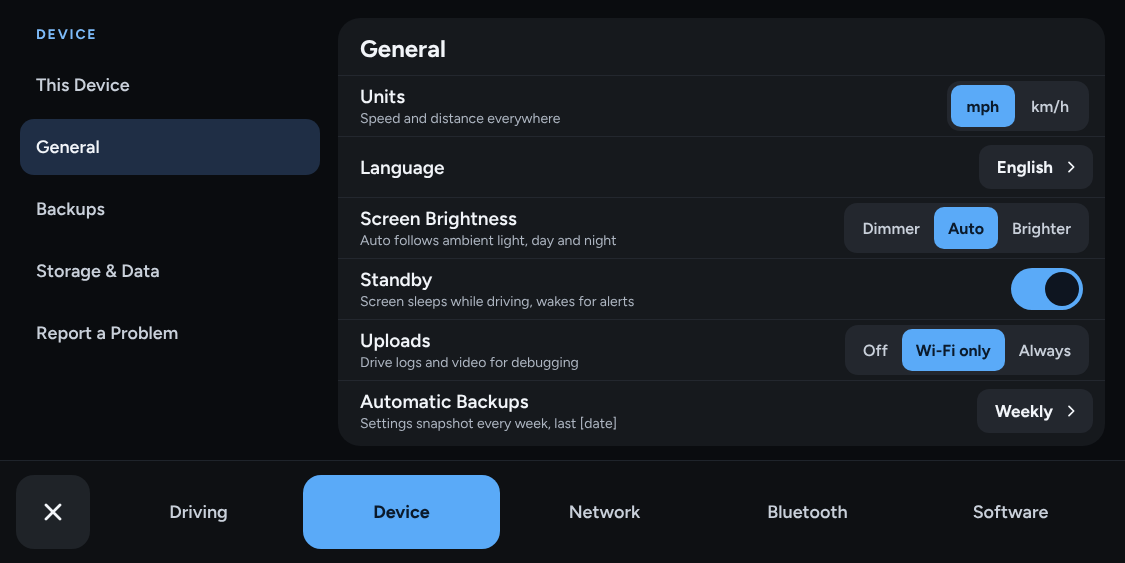
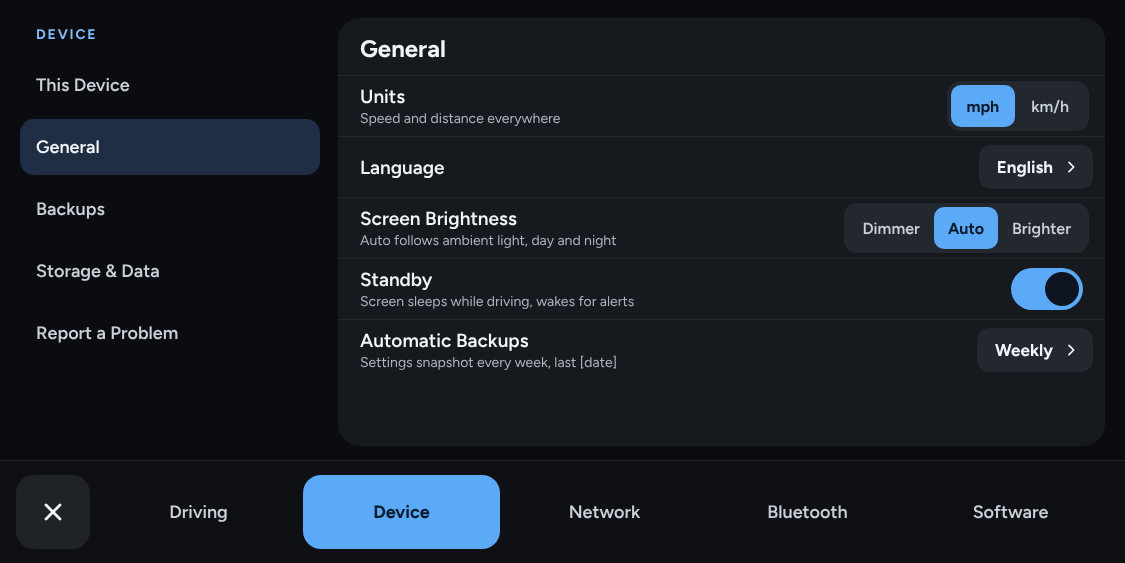
Settings: clearer homes for a few settings
- Bluetooth's Wheel Buttons card is now Bluetooth Remote, apart from the
  car's own Steering Wheel Buttons under Vehicle.
- Display: Camera View and Driver Camera in Reverse move to Driving
  Screen; Theme & Startup holds the customizations: Path Style, Turn
  Signal, Boot Logo and Startup Message.
- Network: Hotspot Password sits under Hotspot instead of in Roaming,
  APN and IP address.
- Storage & Data: a Recording & Uploads group with Record Driver Camera,
  Record Microphone and Uploads (moved from General).
- Everyday gets a description: driving style, speed limits, lane
  changes and steering.

Mocks first: bluetoothtab, display, displaytheme, networktab, system,
systemstorage and driving.

Claude-Session: https://claude.ai/code/session_01R4pPc2hcx88Dbjjec1p8WC

diff --git a/selfdrive/ui/tandem/design/systemstorage.html b/selfdrive/ui/tandem/design/systemstorage.html
@@ -34,28 +34,39 @@ a{color:#7DBBF9}a:hover{color:#A9D3FB}
           <span style="display: flex; align-items: center; gap: 6px;"><span style="width: 10px; height: 10px; border-radius: 3px; background: #F0B35A; display: block;"></span>Models</span>
         </div>
       </div>
-      <div style="display: flex; align-items: center; gap: 16px; padding: 0 14px 0 22px; height: 64px; border-bottom: 1px solid #23272E;">
+      <div style="display: flex; align-items: center; gap: 16px; padding: 0 14px 0 22px; height: 58px; border-bottom: 1px solid #23272E;">
         <div style="flex-grow: 1; display: flex; flex-direction: column; gap: 2px;"><span style="font-size: 18px; font-weight: 600;">Recorded Drives</span><span style="font-size: 14px; color: #AEB6C2;">Oldest drives are removed when space runs low</span></div>
         <button type="button" style="font-family: inherit; height: 44px; padding: 0 16px; border: 0; border-radius: 12px; background: #3A2026; color: #F2A7B1; font-size: 15px; font-weight: 700;">Delete all</button>
       </div>
-      <div style="display: flex; align-items: center; gap: 16px; padding: 0 14px 0 22px; height: 64px; border-bottom: 1px solid #23272E;">
+      <div style="display: flex; align-items: center; gap: 16px; padding: 0 14px 0 22px; height: 58px; border-bottom: 1px solid #23272E;">
         <div style="flex-grow: 1; display: flex; flex-direction: column; gap: 2px;"><span style="font-size: 18px; font-weight: 600;">Offline Maps</span><span style="font-size: 14px; color: #AEB6C2;">Speed limits and curves work without a connection</span></div>
         <button type="button" style="font-family: inherit; height: 44px; padding: 0 16px; border: 0; border-radius: 12px; background: #3A2026; color: #F2A7B1; font-size: 15px; font-weight: 700;">Delete</button>
       </div>
-      <div style="display: flex; align-items: center; gap: 16px; padding: 0 14px 0 22px; height: 64px; border-bottom: 1px solid #23272E;">
+      <div style="display: flex; align-items: center; gap: 16px; padding: 0 14px 0 22px; height: 58px; border-bottom: 1px solid #23272E;">
         <div style="flex-grow: 1; display: flex; flex-direction: column; gap: 2px;"><span style="font-size: 18px; font-weight: 600;">Unused Models</span><span style="font-size: 14px; color: #AEB6C2;">[count] downloaded models not in use</span></div>
         <button type="button" style="font-family: inherit; height: 44px; padding: 0 16px; border: 0; border-radius: 12px; background: #3A2026; color: #F2A7B1; font-size: 15px; font-weight: 700;">Remove</button>
       </div>
-      <div style="display: flex; align-items: center; gap: 16px; padding: 0 22px; height: 64px; border-bottom: 1px solid #23272E;">
+      <div style="padding: 0 22px; height: 30px; display: flex; align-items: flex-end; background: #13161A;">
+        <span style="font-size: 13px; font-weight: 700; letter-spacing: 1.6px; color: #8FA0B5;">RECORDING &amp; UPLOADS</span>
+      </div>
+      <div style="display: flex; align-items: center; gap: 16px; padding: 0 22px; height: 58px; border-bottom: 1px solid #23272E;">
         <div style="flex-grow: 1; display: flex; flex-direction: column; gap: 2px;"><span style="font-size: 18px; font-weight: 600;">Record Driver Camera</span><span style="font-size: 14px; color: #AEB6C2;">Saved and uploaded with your drives</span></div>
         <button type="button" role="switch" aria-checked="false" aria-label="Record Driver Camera" style="width: 72px; height: 42px; border-radius: 21px; border: 0; background: #343A44; padding: 4px; display: flex; justify-content: flex-start;"><span style="width: 34px; height: 34px; border-radius: 17px; background: #F2F5F9; display: block;"></span></button>
       </div>
-      <div style="display: flex; align-items: center; gap: 16px; padding: 0 22px; height: 64px; border-bottom: 1px solid #23272E;">
+      <div style="display: flex; align-items: center; gap: 16px; padding: 0 22px; height: 58px; border-bottom: 1px solid #23272E;">
         <div style="flex-grow: 1; display: flex; flex-direction: column; gap: 2px;"><span style="font-size: 18px; font-weight: 600;">Record Microphone</span><span style="font-size: 14px; color: #AEB6C2;">Cabin audio in your drive recordings</span></div>
         <button type="button" role="switch" aria-checked="false" aria-label="Record Microphone" style="width: 72px; height: 42px; border-radius: 21px; border: 0; background: #343A44; padding: 4px; display: flex; justify-content: flex-start;"><span style="width: 34px; height: 34px; border-radius: 17px; background: #F2F5F9; display: block;"></span></button>
       </div>
+      <div style="display: flex; align-items: center; gap: 16px; padding: 0 16px 0 22px; height: 58px; border-bottom: 1px solid #23272E;">
+        <div style="flex-grow: 1; display: flex; flex-direction: column; gap: 2px;"><span style="font-size: 18px; font-weight: 600;">Uploads</span><span style="font-size: 14px; color: #AEB6C2;">Drive logs and video for debugging</span></div>
+        <div role="radiogroup" aria-label="Uploads" style="display: flex; background: #23272E; border-radius: 13px; padding: 4px;">
+          <button type="button" role="radio" aria-checked="false" style="font-family: inherit; border: 0; background: transparent; color: #C9D0DA; height: 42px; padding: 0 14px; border-radius: 10px; font-size: 16px; font-weight: 600;">Off</button>
+          <button type="button" role="radio" aria-checked="true" style="font-family: inherit; border: 0; background: #5AAAF8; color: #0B1A2B; height: 42px; padding: 0 14px; border-radius: 10px; font-size: 16px; font-weight: 700;">Wi-Fi only</button>
+          <button type="button" role="radio" aria-checked="false" style="font-family: inherit; border: 0; background: transparent; color: #C9D0DA; height: 42px; padding: 0 14px; border-radius: 10px; font-size: 16px; font-weight: 600;">Always</button>
+        </div>
+      </div>
       <div style="flex-grow: 1;"></div>
-      <span style="font-size: 14px; color: #8FA0B5; padding: 12px 22px;">Upload settings are in General. High-quality recording, logging and error logs are in Tuner Mode.</span>
+      <span style="font-size: 14px; color: #8FA0B5; padding: 12px 22px;">High-quality recording, logging and error logs are in Tuner Mode.</span>
     </div>
   </div>
   <nav style="height: 102px; flex-shrink: 0; border-top: 1px solid #1F242B; background: #0E1013; display: flex; align-items: center; gap: 10px; padding: 0 16px;">

diff --git a/selfdrive/ui/tandem/design/displaytheme.html b/selfdrive/ui/tandem/design/displaytheme.html
@@ -24,17 +24,19 @@ a{color:#7DBBF9}a:hover{color:#A9D3FB}
     </div>
     <div style="flex-grow: 1; min-width: 0; background: #16191D; border-radius: 22px; display: flex; flex-direction: column; overflow: hidden;">
       <div style="padding: 16px 22px 12px; border-bottom: 1px solid #23272E;"><h2 style="margin: 0; font-size: 24px; font-weight: 700;">Theme &amp; Startup</h2></div>
-      <div style="display: flex; align-items: center; gap: 16px; padding: 0 16px 0 22px; height: 70px; border-bottom: 1px solid #23272E;">
-        <div style="flex-grow: 1; display: flex; flex-direction: column; gap: 2px;"><span style="font-size: 19px; font-weight: 600;">Camera View</span><span style="font-size: 14px; color: #AEB6C2;">Wide shows more of the road at low speed</span></div>
-        <div role="radiogroup" aria-label="Camera view" style="display: flex; background: #23272E; border-radius: 13px; padding: 4px;">
-          <button type="button" role="radio" aria-checked="false" style="font-family: inherit; border: 0; background: transparent; color: #C9D0DA; height: 42px; padding: 0 16px; border-radius: 10px; font-size: 16px; font-weight: 600;">Auto</button>
-          <button type="button" role="radio" aria-checked="true" style="font-family: inherit; border: 0; background: #5AAAF8; color: #0B1A2B; height: 42px; padding: 0 16px; border-radius: 10px; font-size: 16px; font-weight: 700;">Standard</button>
-          <button type="button" role="radio" aria-checked="false" style="font-family: inherit; border: 0; background: transparent; color: #C9D0DA; height: 42px; padding: 0 16px; border-radius: 10px; font-size: 16px; font-weight: 600;">Wide</button>
+      <div style="display: flex; align-items: center; gap: 16px; padding: 0 12px 0 22px; height: 56px; border-bottom: 1px solid #23272E;">
+        <div style="flex-grow: 1; display: flex; flex-direction: column; gap: 2px; min-width: 0;">
+          <span style="font-size: 19px; font-weight: 600;">Path Style</span>
+          <span style="font-size: 14px; color: #AEB6C2;">Color, width and edges as one preset</span>
         </div>
+        <a href="pathstylepicker.html" style="text-decoration: none; display: flex; align-items: center; gap: 10px; height: 44px; padding: 0 14px 0 18px; border: 0; border-radius: 12px; background: #23272E; color: #F2F5F9; font-size: 17px; font-weight: 700;">Standard <svg width="16" height="16" viewBox="0 0 24 24" fill="none" stroke="#F2F5F9" stroke-width="2.6" stroke-linecap="round" stroke-linejoin="round" aria-hidden="true"><path d="M9 5l7 7-7 7"></path></svg></a>
       </div>
-      <div style="display: flex; align-items: center; gap: 16px; padding: 0 22px; height: 70px; border-bottom: 1px solid #23272E;">
-        <div style="flex-grow: 1; display: flex; flex-direction: column; gap: 2px;"><span style="font-size: 19px; font-weight: 600;">Driver Camera in Reverse</span><span style="font-size: 14px; color: #AEB6C2;">Shows the inside camera while backing up</span></div>
-        <button type="button" role="switch" aria-checked="false" aria-label="Driver Camera in Reverse" style="width: 72px; height: 42px; border-radius: 21px; border: 0; background: #343A44; padding: 4px; display: flex; justify-content: flex-start;"><span style="width: 34px; height: 34px; border-radius: 17px; background: #F2F5F9; display: block;"></span></button>
+      <div style="display: flex; align-items: center; gap: 16px; padding: 0 12px 0 22px; height: 56px; border-bottom: 1px solid #23272E;">
+        <div style="flex-grow: 1; display: flex; flex-direction: column; gap: 2px; min-width: 0;">
+          <span style="font-size: 19px; font-weight: 600;">Turn Signal</span>
+          <span style="font-size: 14px; color: #AEB6C2;">Chevrons by the speed, or a whimsical animation</span>
+        </div>
+        <a href="signalpicker.html" style="text-decoration: none; display: flex; align-items: center; gap: 10px; height: 44px; padding: 0 14px 0 18px; border: 0; border-radius: 12px; background: #23272E; color: #F2F5F9; font-size: 17px; font-weight: 700;">Standard <svg width="16" height="16" viewBox="0 0 24 24" fill="none" stroke="#F2F5F9" stroke-width="2.6" stroke-linecap="round" stroke-linejoin="round" aria-hidden="true"><path d="M9 5l7 7-7 7"></path></svg></a>
       </div>
       <div style="display: flex; align-items: center; gap: 16px; padding: 0 12px 0 22px; height: 70px; border-bottom: 1px solid #23272E;">
         <div style="flex-grow: 1; display: flex; flex-direction: column; gap: 2px;"><span style="font-size: 19px; font-weight: 600;">Boot Logo</span><span style="font-size: 14px; color: #AEB6C2;">Shown while the device starts up</span></div>

diff --git a/selfdrive/ui/tandem/design/display.html b/selfdrive/ui/tandem/design/display.html
@@ -26,19 +26,17 @@ a{color:#7DBBF9}a:hover{color:#A9D3FB}
       <div style="padding: 16px 22px 12px; border-bottom: 1px solid #23272E;">
         <h2 style="margin: 0; font-size: 24px; font-weight: 700;">Driving Screen</h2>
       </div>
-      <div style="display: flex; align-items: center; gap: 16px; padding: 0 12px 0 22px; height: 56px; border-bottom: 1px solid #23272E;">
-        <div style="flex-grow: 1; display: flex; flex-direction: column; gap: 2px; min-width: 0;">
-          <span style="font-size: 19px; font-weight: 600;">Path Style</span>
-          <span style="font-size: 14px; color: #AEB6C2;">Color, width and edges as one preset</span>
+      <div style="display: flex; align-items: center; gap: 16px; padding: 0 16px 0 22px; height: 70px; border-bottom: 1px solid #23272E;">
+        <div style="flex-grow: 1; display: flex; flex-direction: column; gap: 2px;"><span style="font-size: 19px; font-weight: 600;">Camera View</span><span style="font-size: 14px; color: #AEB6C2;">Wide shows more of the road at low speed</span></div>
+        <div role="radiogroup" aria-label="Camera view" style="display: flex; background: #23272E; border-radius: 13px; padding: 4px;">
+          <button type="button" role="radio" aria-checked="false" style="font-family: inherit; border: 0; background: transparent; color: #C9D0DA; height: 42px; padding: 0 16px; border-radius: 10px; font-size: 16px; font-weight: 600;">Auto</button>
+          <button type="button" role="radio" aria-checked="true" style="font-family: inherit; border: 0; background: #5AAAF8; color: #0B1A2B; height: 42px; padding: 0 16px; border-radius: 10px; font-size: 16px; font-weight: 700;">Standard</button>
+          <button type="button" role="radio" aria-checked="false" style="font-family: inherit; border: 0; background: transparent; color: #C9D0DA; height: 42px; padding: 0 16px; border-radius: 10px; font-size: 16px; font-weight: 600;">Wide</button>
         </div>
-        <a href="pathstylepicker.html" style="text-decoration: none; display: flex; align-items: center; gap: 10px; height: 44px; padding: 0 14px 0 18px; border: 0; border-radius: 12px; background: #23272E; color: #F2F5F9; font-size: 17px; font-weight: 700;">Standard <svg width="16" height="16" viewBox="0 0 24 24" fill="none" stroke="#F2F5F9" stroke-width="2.6" stroke-linecap="round" stroke-linejoin="round" aria-hidden="true"><path d="M9 5l7 7-7 7"></path></svg></a>
       </div>
-      <div style="display: flex; align-items: center; gap: 16px; padding: 0 12px 0 22px; height: 56px; border-bottom: 1px solid #23272E;">
-        <div style="flex-grow: 1; display: flex; flex-direction: column; gap: 2px; min-width: 0;">
-          <span style="font-size: 19px; font-weight: 600;">Turn Signal</span>
-          <span style="font-size: 14px; color: #AEB6C2;">Chevrons by the speed, or a whimsical animation</span>
-        </div>
-        <a href="signalpicker.html" style="text-decoration: none; display: flex; align-items: center; gap: 10px; height: 44px; padding: 0 14px 0 18px; border: 0; border-radius: 12px; background: #23272E; color: #F2F5F9; font-size: 17px; font-weight: 700;">Standard <svg width="16" height="16" viewBox="0 0 24 24" fill="none" stroke="#F2F5F9" stroke-width="2.6" stroke-linecap="round" stroke-linejoin="round" aria-hidden="true"><path d="M9 5l7 7-7 7"></path></svg></a>
+      <div style="display: flex; align-items: center; gap: 16px; padding: 0 22px; height: 70px; border-bottom: 1px solid #23272E;">
+        <div style="flex-grow: 1; display: flex; flex-direction: column; gap: 2px;"><span style="font-size: 19px; font-weight: 600;">Driver Camera in Reverse</span><span style="font-size: 14px; color: #AEB6C2;">Shows the inside camera while backing up</span></div>
+        <button type="button" role="switch" aria-checked="false" aria-label="Driver Camera in Reverse" style="width: 72px; height: 42px; border-radius: 21px; border: 0; background: #343A44; padding: 4px; display: flex; justify-content: flex-start;"><span style="width: 34px; height: 34px; border-radius: 17px; background: #F2F5F9; display: block;"></span></button>
       </div>
       <div style="display: flex; align-items: center; gap: 16px; padding: 0 22px; height: 56px; border-bottom: 1px solid #23272E;">
         <div style="flex-grow: 1; display: flex; flex-direction: column; gap: 2px; min-width: 0;">

diff --git a/selfdrive/ui/tandem/design/system.html b/selfdrive/ui/tandem/design/system.html
@@ -49,14 +49,6 @@ a{color:#7DBBF9}a:hover{color:#A9D3FB}
         <div style="flex-grow: 1; display: flex; flex-direction: column; gap: 2px;"><span style="font-size: 19px; font-weight: 600;">Standby</span><span style="font-size: 14px; color: #AEB6C2;">Screen sleeps while driving, wakes for alerts</span></div>
         <button type="button" role="switch" aria-checked="true" aria-label="Standby" style="width: 72px; height: 42px; border-radius: 21px; border: 0; background: #5AAAF8; padding: 4px; display: flex; justify-content: flex-end;"><span style="width: 34px; height: 34px; border-radius: 17px; background: #0E1520; display: block;"></span></button>
       </div>
-      <div style="display: flex; align-items: center; gap: 16px; padding: 0 16px 0 22px; height: 60px; border-bottom: 1px solid #23272E;">
-        <div style="flex-grow: 1; display: flex; flex-direction: column; gap: 2px;"><span style="font-size: 19px; font-weight: 600;">Uploads</span><span style="font-size: 14px; color: #AEB6C2;">Drive logs and video for debugging</span></div>
-        <div role="radiogroup" aria-label="Uploads" style="display: flex; background: #23272E; border-radius: 13px; padding: 4px;">
-          <button type="button" role="radio" aria-checked="false" style="font-family: inherit; border: 0; background: transparent; color: #C9D0DA; height: 42px; padding: 0 14px; border-radius: 10px; font-size: 16px; font-weight: 600;">Off</button>
-          <button type="button" role="radio" aria-checked="true" style="font-family: inherit; border: 0; background: #5AAAF8; color: #0B1A2B; height: 42px; padding: 0 14px; border-radius: 10px; font-size: 16px; font-weight: 700;">Wi-Fi only</button>
-          <button type="button" role="radio" aria-checked="false" style="font-family: inherit; border: 0; background: transparent; color: #C9D0DA; height: 42px; padding: 0 14px; border-radius: 10px; font-size: 16px; font-weight: 600;">Always</button>
-        </div>
-      </div>
       <div style="display: flex; align-items: center; gap: 16px; padding: 0 12px 0 22px; height: 60px;">
         <div style="flex-grow: 1; display: flex; flex-direction: column; gap: 2px;"><span style="font-size: 19px; font-weight: 600;">Automatic Backups</span><span style="font-size: 14px; color: #AEB6C2;">Settings snapshot every week, last [date]</span></div>
         <button type="button" style="font-family: inherit; display: flex; align-items: center; gap: 10px; height: 44px; padding: 0 14px 0 18px; border: 0; border-radius: 12px; background: #23272E; color: #F2F5F9; font-size: 17px; font-weight: 700;">Weekly <svg width="16" height="16" viewBox="0 0 24 24" fill="none" stroke="#F2F5F9" stroke-width="2.6" stroke-linecap="round" stroke-linejoin="round" aria-hidden="true"><path d="M9 5l7 7-7 7"></path></svg></button>

diff --git a/selfdrive/ui/tandem/design/bluetoothtab.html b/selfdrive/ui/tandem/design/bluetoothtab.html
@@ -19,7 +19,7 @@ a{color:#7DBBF9}a:hover{color:#A9D3FB}
     <div style="background: #16191D; border-radius: 22px; display: flex; flex-direction: column; overflow: hidden;">
       <div style="display: flex; align-items: center; gap: 14px; padding: 14px 14px 14px 20px; border-bottom: 1px solid #23272E;">
         <div style="width: 48px; height: 48px; border-radius: 14px; background: #1F2E45; display: flex; align-items: center; justify-content: center; flex-shrink: 0;"><svg width="26" height="26" viewBox="0 0 24 24" fill="none" stroke="#7DBBF9" stroke-width="2" stroke-linecap="round" stroke-linejoin="round" aria-hidden="true"><circle cx="12" cy="12" r="9"></circle><circle cx="12" cy="12" r="2.5"></circle><path d="M3.5 10.5h6M14.5 10.5h6M12 14.5V21"></path></svg></div>
-        <div style="flex-grow: 1; display: flex; flex-direction: column; gap: 2px;"><span style="font-size: 20px; font-weight: 700;">Wheel Buttons</span><span style="font-size: 14px; color: #6FD8A0;">[Wheel remote] · Connected</span></div>
+        <div style="flex-grow: 1; display: flex; flex-direction: column; gap: 2px;"><span style="font-size: 20px; font-weight: 700;">Bluetooth Remote</span><span style="font-size: 14px; color: #6FD8A0;">[Wheel remote] · Connected</span></div>
         <span style="display: flex; align-items: center; gap: 8px; height: 40px; padding: 0 14px; border-radius: 12px; background: #1F2E45; color: #DCEBFF; font-size: 14px; font-weight: 600;"><svg width="16" height="16" viewBox="0 0 24 24" fill="none" stroke="#7DBBF9" stroke-width="2.2" stroke-linecap="round" aria-hidden="true"><circle cx="12" cy="12" r="3"></circle><path d="M12 3v2M12 19v2M3 12h2M19 12h2"></path></svg>Press any button to find it</span>
       </div>
       <div style="display: flex; align-items: center; gap: 14px; padding: 0 12px 0 20px; height: 60px; border-bottom: 1px solid #23272E;">

diff --git a/selfdrive/ui/tandem/design/networktab.html b/selfdrive/ui/tandem/design/networktab.html
@@ -49,6 +49,10 @@ a{color:#7DBBF9}a:hover{color:#A9D3FB}
         <button type="button" role="switch" aria-checked="false" aria-label="Hotspot" style="width: 72px; height: 42px; border-radius: 21px; border: 0; background: #343A44; padding: 4px; display: flex; justify-content: flex-start;"><span style="width: 34px; height: 34px; border-radius: 17px; background: #F2F5F9; display: block;"></span></button>
       </div>
       <div style="display: flex; align-items: center; gap: 14px; padding: 0 18px 0 22px; height: 70px; border-bottom: 1px solid #23272E;">
+        <div style="flex-grow: 1; display: flex; flex-direction: column; gap: 2px;"><span style="font-size: 18px; font-weight: 600;">Hotspot Password</span><span style="font-size: 14px; color: #AEB6C2;">For phones joining this device's hotspot</span></div>
+        <a href="#" style="text-decoration: none; display: flex; align-items: center; height: 44px; padding: 0 18px; border-radius: 12px; background: #23272E; color: #F2F5F9; font-size: 17px; font-weight: 700;">Edit</a>
+      </div>
+      <div style="display: flex; align-items: center; gap: 14px; padding: 0 18px 0 22px; height: 70px; border-bottom: 1px solid #23272E;">
         <div style="flex-grow: 1; display: flex; flex-direction: column; gap: 2px;"><span style="font-size: 18px; font-weight: 600;">Save Data</span><span style="font-size: 14px; color: #AEB6C2;">No large uploads on cellular or phone hotspots</span></div>
         <button type="button" role="switch" aria-checked="true" aria-label="Save Data" style="width: 72px; height: 42px; border-radius: 21px; border: 0; background: #5AAAF8; padding: 4px; display: flex; justify-content: flex-end;"><span style="width: 34px; height: 34px; border-radius: 17px; background: #0E1520; display: block;"></span></button>
       </div>

diff --git a/selfdrive/ui/tandem/design/driving.html b/selfdrive/ui/tandem/design/driving.html
@@ -30,7 +30,7 @@ a{color:#5AAAF8}a:hover{color:#8CC4FA}
     </div>
     <div style="flex-grow: 1; min-width: 0; background: #16191D; border-radius: 22px; display: flex; flex-direction: column; overflow: hidden;">
       <div style="padding: 12px 22px 8px; border-bottom: 1px solid #23272E; display: flex; align-items: baseline; justify-content: space-between;">
-        <h2 style="margin: 0; font-size: 24px; font-weight: 700;">Everyday</h2>
+        <div style="display: flex; flex-direction: column; gap: 3px;"><h2 style="margin: 0; font-size: 24px; font-weight: 700;">Everyday</h2><span style="font-size: 14px; color: #AEB6C2;">Driving style, speed limits, lane changes and steering</span></div>
         <span style="font-size: 14px; color: #8FA0B5;">7 settings</span>
       </div>
       <div style="display: flex; align-items: center; gap: 16px; padding: 0 16px 0 22px; height: 54px; border-bottom: 1px solid #23272E;">

diff --git a/selfdrive/ui/tandem/settings/display.py b/selfdrive/ui/tandem/settings/display.py
@@ -242,21 +242,13 @@ def bundle_sheet(window, start: int = 0) -> Sheet:
 
 
 def driving_screen_panel(model: Display, window) -> ListPanel:
-  def path_sheet():
-    window.present(Sheet("Path Style", PathStylePicker(lambda: model.path_style, model.set_path_style),
-                         subtitle="Sets path color, width, edges and lane lines together",
-                         actions=[Button("Done", window.dismiss, ButtonStyle.PRIMARY)], on_dismiss=window.dismiss))
-
-  def signal_sheet():
-    window.present(Sheet("Turn Signal", SignalPicker(lambda: model.signal_style, model.set_signal_style),
-                         subtitle="Plays beside the speed while a blinker is on",
-                         actions=[Button("Done", window.dismiss, ButtonStyle.PRIMARY)], on_dismiss=window.dismiss))
-
   dev_get, dev_set = model.bundle(DEVELOPER_VIEW)
   lead_get, lead_set = model.bundle(LEAD_INSIGHTS)
   return ListPanel([
-    SettingRow("Path Style", "Color, width and edges as one preset", ValueButton(lambda: PATH_STYLES[model.path_style][0], path_sheet)),
-    SettingRow("Turn Signal", "Chevrons by the speed, or a whimsical animation", ValueButton(model.signal_name, signal_sheet)),
+    SettingRow("Camera View", "Wide shows more of the road at low speed",
+               Segmented([name for name, _ in CAMERA_VIEWS], lambda: model.camera_view, model.set_camera_view)),
+    SettingRow("Driver Camera in Reverse", "Shows the inside camera while backing up",
+               Switch(lambda: model.driver_camera_in_reverse, model.set_driver_camera_in_reverse)),
     SettingRow("Driving Style Banner", "Shows the current style when it changes",
                Switch(lambda: model.driving_style_banner, model.set_driving_style_banner)),
     SettingRow("Blind Spot Highlights", "Colors the screen edge and lane when a car is beside you",
@@ -283,11 +275,20 @@ def boot_logo_sheet(model: Display, window) -> None:
 
 
 def theme_panel(model: Display, edit_startup_message: Callable[[], None], window=None) -> ListPanel:
+  """The customizations: how the path and turn signal look, and what shows at startup."""
+  def path_sheet():
+    window.present(Sheet("Path Style", PathStylePicker(lambda: model.path_style, model.set_path_style),
+                         subtitle="Sets path color, width, edges and lane lines together",
+                         actions=[Button("Done", window.dismiss, ButtonStyle.PRIMARY)], on_dismiss=window.dismiss))
+
+  def signal_sheet():
+    window.present(Sheet("Turn Signal", SignalPicker(lambda: model.signal_style, model.set_signal_style),
+                         subtitle="Plays beside the speed while a blinker is on",
+                         actions=[Button("Done", window.dismiss, ButtonStyle.PRIMARY)], on_dismiss=window.dismiss))
+
   return ListPanel([
-    SettingRow("Camera View", "Wide shows more of the road at low speed",
-               Segmented([name for name, _ in CAMERA_VIEWS], lambda: model.camera_view, model.set_camera_view)),
-    SettingRow("Driver Camera in Reverse", "Shows the inside camera while backing up",
-               Switch(lambda: model.driver_camera_in_reverse, model.set_driver_camera_in_reverse)),
+    SettingRow("Path Style", "Color, width and edges as one preset", ValueButton(lambda: PATH_STYLES[model.path_style][0], path_sheet)),
+    SettingRow("Turn Signal", "Chevrons by the speed, or a whimsical animation", ValueButton(model.signal_name, signal_sheet)),
     SettingRow("Boot Logo", "Shown while the device starts up", ValueButton(model.boot_logo_name, lambda: boot_logo_sheet(model, window))),
     SettingRow("Startup Message", lambda: "The banner when you start the car" if model.startup_is_default() else model.startup_message()[0],
                ValueButton(lambda: "Default" if model.startup_is_default() else "Custom", edit_startup_message)),

diff --git a/selfdrive/ui/tandem/settings/device_sections.py b/selfdrive/ui/tandem/settings/device_sections.py
@@ -144,7 +144,6 @@ def general_panel(model: General, window) -> ListPanel:
     SettingRow("Screen Brightness", "Auto follows ambient light, day and night",
                Segmented([name for name, _, _ in BRIGHTNESS], lambda: model.brightness, model.set_brightness)),
     SettingRow("Standby", "Screen sleeps while driving, wakes for alerts", Switch(lambda: model.standby, model.set_standby)),
-    SettingRow("Uploads", "Drive logs and video for debugging", Segmented(UPLOADS, lambda: model.uploads, model.set_uploads)),
   ], title="General")
 
 
@@ -323,10 +322,12 @@ def storage_panel(model: General, window, models) -> ListPanel:
                       ButtonStyle.DANGER_SOFT)),
     delete_maps_row(model.data, window),
     unused_models_row(models, window),
+    SectionHeader("RECORDING & UPLOADS"),
     driver,
     audio,
+    SettingRow("Uploads", "Drive logs and video for debugging", Segmented(UPLOADS, lambda: model.uploads, model.set_uploads)),
   ], title="Storage & Data", header_divider=False, end_divider=True,   # the usage bar belongs to the header, as in the mock
-     footnote="Upload settings are in General. High-quality recording, logging and error logs are in Tuner Mode.")
+     footnote="High-quality recording, logging and error logs are in Tuner Mode.")
 
 
 class Report:

diff --git a/selfdrive/ui/tandem/settings/network_tab.py b/selfdrive/ui/tandem/settings/network_tab.py
@@ -176,6 +176,7 @@ def wifi_panel(model: Network) -> Component:
 def cellular_panel(model: Network, open_advanced: Callable[[], None]) -> ListPanel:
   return ListPanel([
     SettingRow("Hotspot", "Share this device's connection", Switch(lambda: model.hotspot, model.set_hotspot)),
+    SettingRow("Hotspot Password", "For phones joining this device's hotspot", ValueButton(lambda: "Edit", model.edit_hotspot_password)),
     SettingRow("Save Data", "No large uploads on cellular or phone hotspots", Switch(lambda: model.save_data, model.set_save_data)),
   ], title="Cellular", end_divider=True, bottom=SettingRow("Roaming, APN and IP address", None, on_click=open_advanced))
 
@@ -184,7 +185,6 @@ def advanced_panel(model: Network) -> ListPanel:
   return ListPanel([
     SettingRow("Roaming", "Use cellular data outside your carrier's network", Switch(lambda: model.roaming, model.set_roaming)),
     SettingRow("APN", lambda: model.apn() or "Automatic", ValueButton(lambda: "Edit", model.edit_apn)),
-    SettingRow("Hotspot Password", None, ValueButton(lambda: "Edit", model.edit_hotspot_password)),
     SettingRow("IP Address", lambda: model.wifi.ipv4_address or "Not connected"),
   ], title="Roaming, APN and IP address")
 

diff --git a/selfdrive/ui/tandem/settings/bluetooth_tab.py b/selfdrive/ui/tandem/settings/bluetooth_tab.py
@@ -256,7 +256,8 @@ def wheel_panel(model: WheelButtons, window) -> Component:
 
 
 class WheelHeader(Component):
-  """Icon, Wheel Buttons and the remote, with a reminder that pressing a button finds it."""
+  """Icon, Bluetooth Remote (not the car's own wheel buttons, under Vehicle) and the remote, with a reminder that pressing
+  a button finds it."""
   grow_touch_target = False
 
   def __init__(self, model: WheelButtons):
@@ -282,7 +283,7 @@ class WheelHeader(Component):
     text = inset(body, left=T.px(62))
     lines = [draw.line_height(T.font_px(20)), draw.line_height(T.SIZE_SUBTITLE)]
     title, line = column(place(text, text.width, sum(lines) + T.px(2)), lines, T.px(2))
-    draw.text(title, "Wheel Buttons", T.font_px(20), T.TEXT, T.FONT_BOLD)
+    draw.text(title, "Bluetooth Remote", T.font_px(20), T.TEXT, T.FONT_BOLD)
     draw.text(line, self._model.remote_name(), T.SIZE_SUBTITLE, T.SUCCESS_TEXT if self._model.buttons() else T.TEXT_TERTIARY)
 
 

diff --git a/selfdrive/ui/tandem/settings/speed_steering.py b/selfdrive/ui/tandem/settings/speed_steering.py
@@ -145,7 +145,7 @@ def everyday_panel(model: SpeedSteering) -> ListPanel:
     SettingRow("Always-On Steering", "Keeps steering with cruise off.",
                Switch(lambda: model.always_on_steering, model.set_always_on_steering)),
   ]
-  return ListPanel(rows, title="Everyday", header_control=Label(lambda: f"{sum(r.is_visible for r in rows)} settings", T.SIZE_CAPTION,
+  return ListPanel(rows, title="Everyday", subtitle="Driving style, speed limits, lane changes and steering", header_control=Label(lambda: f"{sum(r.is_visible for r in rows)} settings", T.SIZE_CAPTION,
                                                                 T.TEXT_MUTED, T.FONT, fit=True))
 
 
